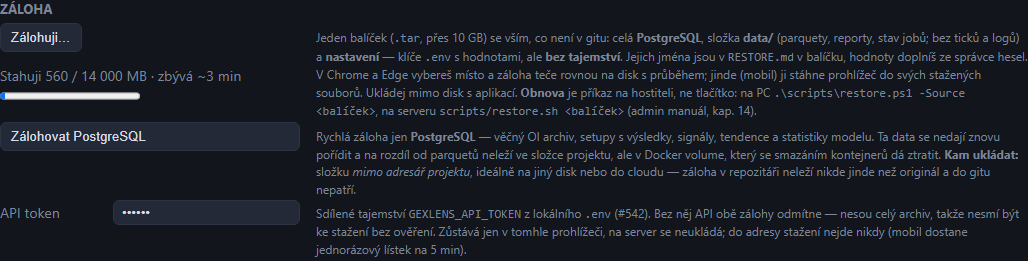
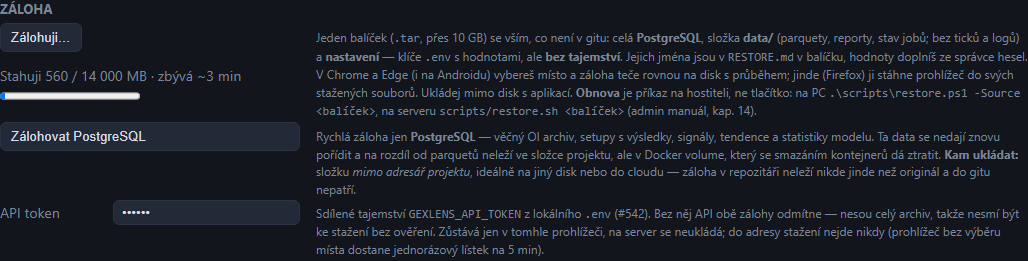
wip(frontend): mobilní cesta je Chrome na Androidu, ne Safari — texty, manuál a snímek (Rozhodnuto 25. 11. v #1094) — další: večerní F2/F3
Chrome 132+ na Androidu má showSaveFilePicker a jde stejnou cestou jako PC;
lístek zůstává pro prohlížeče bez File System Access API (Firefox, starší Chrome).

Claude-Session: https://claude.ai/code/session_016mugTeW9ZbTLz7YjF3P1Lf

diff --git a/frontend/src/components/SettingsView.tsx b/frontend/src/components/SettingsView.tsx
@@ -645,8 +645,8 @@ Sběr dat se na ~1–2 minuty přeruší.`)
               jobů; bez ticků a logů) a <strong>nastavení</strong> — klíče <code>.env</code> s
               hodnotami, ale <strong>bez tajemství</strong>. Jejich jména jsou v{' '}
               <code>RESTORE.md</code> v balíčku, hodnoty doplníš ze správce hesel. V Chrome a Edge
-              vybereš místo a záloha teče rovnou na disk s průběhem; jinde (mobil) ji stáhne
-              prohlížeč do svých stažených souborů. Ukládej mimo disk s aplikací.{' '}
+              (i na Androidu) vybereš místo a záloha teče rovnou na disk s průběhem; jinde (Firefox)
+              ji stáhne prohlížeč do svých stažených souborů. Ukládej mimo disk s aplikací.{' '}
               <strong>Obnova</strong> je příkaz na hostiteli, ne tlačítko: na PC{' '}
               <code>.\scripts\restore.ps1 -Source &lt;balíček&gt;</code>, na serveru{' '}
               <code>scripts/restore.sh &lt;balíček&gt;</code> (admin manuál, kap. 14).
@@ -705,7 +705,7 @@ Sběr dat se na ~1–2 minuty přeruší.`)
               Sdílené tajemství <code>GEXLENS_API_TOKEN</code> z lokálního <code>.env</code> (#542).
               Bez něj API obě zálohy odmítne — nesou celý archiv, takže nesmí být ke stažení bez
               ověření. Zůstává jen v tomhle prohlížeči, na server se neukládá; do adresy stažení
-              nejde nikdy (mobil dostane jednorázový lístek na 5 min).
+              nejde nikdy (prohlížeč bez výběru místa dostane jednorázový lístek na 5 min).
             </>
           }
         >

diff --git a/frontend/src/api/backup.ts b/frontend/src/api/backup.ts
@@ -7,7 +7,8 @@ Dialog se musí otevřít ještě v aktivaci kliku (Chrome ji drží ~5 s), prot
 až po čekání na data: dump PG má hlavičky hned, úplná záloha si předem vyžádá
 lístek a dialog otevře před minutou přípravy balíčku.
 
-Jinde (mobil) spadne dump PG na stažení přes blob a úplná záloha na nativní
+Jinde (Firefox, Chrome pro Android před verzí 132) spadne dump PG na stažení
+přes blob a úplná záloha na nativní
 stažení prohlížečem. To hlavičku s tokenem poslat neumí a token do URL nesmí
 (historie prohlížeče, access log), proto jde přes jednorázový lístek
 `POST /backup/full/ticket` (platí 5 min a jednou). Která cesta se použila, se

diff --git a/frontend/e2e/backup.spec.ts b/frontend/e2e/backup.spec.ts
@@ -4,7 +4,7 @@ Obě cesty ukládání se skutečnými streamy prohlížeče, které jsdom jen n
 
 - Chrome/Edge: `showSaveFilePicker` (nahrazený zapisovačem, který bajty jen
   počítá — nativní dialog headless neotevře) a stream odpovědi do souboru;
-- jiný prohlížeč (mobil): nativní stažení s jednorázovým lístkem v URL.
+- prohlížeč bez File System Access API (Firefox): nativní stažení s jednorázovým lístkem v URL.
 
 REST je mockovaný; API token z localStorage nesmí skončit v žádné URL.
 */

diff --git a/api/src/gexlens_api/security.py b/api/src/gexlens_api/security.py
@@ -6,7 +6,7 @@ Model hrozby: API nemá uživatele ani role — chrání se dvě různé věci.
    respektive přihlášený uživatel z UI. Sdílené tajemství z `GEXLENS_API_TOKEN`
    stačí a nevyžaduje session vrstvu. Bez nastaveného tokenu se endpointy
    odmítají (503) — otevřený režim by se na serveru tiše přenesl do provozu.
-   Nativní stažení prohlížečem (úplná záloha na mobilu, #1801) hlavičku poslat
+   Nativní stažení prohlížečem bez File System Access API (úplná záloha, #1801) hlavičku poslat
    neumí; dostane proto jednorázový lístek do URL. Token sám do URL nejde
    nikdy — zůstal by v historii prohlížeče a v access logu.
 2. **Odposlech WS** (`/ws/live`). Tady token nepomůže: útok vede přes prohlížeč

diff --git a/docs/manual/UZIVATELSKY-MANUAL.md b/docs/manual/UZIVATELSKY-MANUAL.md
@@ -1522,14 +1522,14 @@ Light téma:
   s hodnotami, ale **bez tajemství**. Jména tajemství jsou v `RESTORE.md` uvnitř
   balíčku, hodnoty doplníš ze správce hesel. Ukládej mimo disk s aplikací
   (externí disk), ne do repozitáře.
-  - **Chrome a Edge:** hned po kliknutí se otevře dialog „Uložit jako“ se jménem
+  - **Chrome a Edge** (i Chrome na Androidu od verze 132): hned po kliknutí se otevře dialog „Uložit jako“ se jménem
     `gexlens-zaloha-<datum>_<čas>-<revize>.tar`. Pak server balíček připraví
     (dump databáze a kopie dnešních partic, pod tlačítkem „Připravuji balíček…“)
     a záloha teče rovnou do souboru. Pod tlačítkem běží **stažené MB / celkem**
     s pruhem a **odhad zbývajícího času**, na konci „Dokončuji zápis souboru na
     disk…“: Chrome soubor do té doby píše vedle jako `.crswap` a teprve teď ho
     přesune na místo. Data tečou rovnou do souboru a v paměti tabu se nehromadí.
-  - **Jiný prohlížeč** (Safari na iPhonu, Firefox): stažení převezme prohlížeč
+  - **Prohlížeč bez výběru místa** (Firefox, starší Chrome): stažení převezme prohlížeč
     a průběh ukazuje jeho seznam stažených souborů. API token se do adresy
     nedává: aplikace si vyžádá jednorázový lístek, který platí 5 minut
     a jen jednou.

diff --git a/docs/manual/ADMIN-MANUAL.md b/docs/manual/ADMIN-MANUAL.md
@@ -1239,7 +1239,7 @@ jsou v kap. 14 „Formát balíčku úplné zálohy“.
   (`secrets/ibkr_password`) leží mimo `data/` a do balíčku se nedostane.
 - **Spuštění:** tlačítko Settings → Záloha → „Úplná záloha“ (F4 #1801, uživatelský manuál
   kap. 13), `GET /backup/full` s hlavičkou `X-GEXLens-Token`, nebo CLI v kontejneru API.
-  Nativní stažení prohlížečem (mobil, prohlížeč bez File System Access API) hlavičku poslat
+  Nativní stažení prohlížečem (prohlížeč bez File System Access API, např. Firefox) hlavičku poslat
   neumí a token do URL nesmí: UI si vyžádá jednorázový lístek `POST /backup/full/ticket`
   (za tokenem) a stáhne `GET /backup/full?ticket=…`. Lístek platí 5 min, spotřebuje se prvním
   použitím (i neúspěšným) a drží se v paměti procesu API (jeden proces uvicornu); restart API
